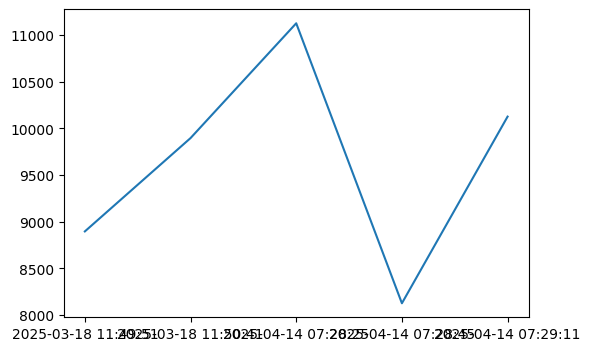
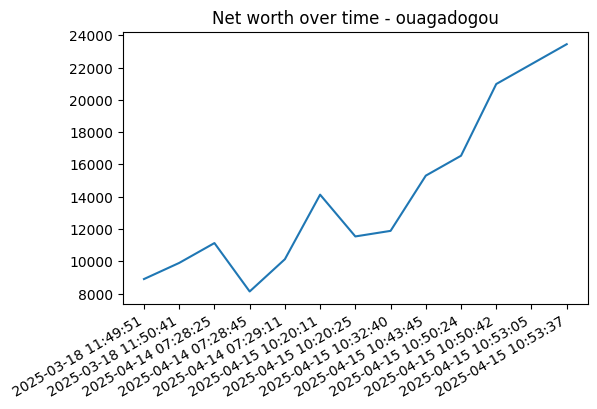
plots now appear immediately after logging in

diff --git a/piekluves_darbs/templates/dashboard.html b/piekluves_darbs/templates/dashboard.html
@@ -62,12 +62,9 @@
                                         <button type="submit" class="btn btn-primary w-100">View!</button>
                                     </form>
                                 </div>
-
-                                {% if plot_url %}
                                     <div id="plot-container">
                                         <img src="/static/plot_image.png" alt="Plot Image" style="width: 100%; max-width: 600px;">
                                     </div>
-                                {% endif %}
                             </div>
                         <div class="col-md-1"></div>
                     </div>

diff --git a/piekluves_darbs/app.py b/piekluves_darbs/app.py
@@ -1,9 +1,11 @@
 from flask import *
 import sqlite3 as sql
 import hashlib
-import datetime as dt
+from datetime import datetime as dt
+import time
 import matplotlib
 import matplotlib.pyplot as plt
+import matplotlib.dates as mdates
 import numpy as np
 import uuid
 import io
@@ -214,8 +216,9 @@ def dashboard():
         businesses.append(business.business_name)
 
     print(businesses)
+    timestamp = request.args.get("t", int(time.time() * 1000))
     
-    return render_template("dashboard.html", username = name, businesses = businesses)
+    return render_template("dashboard.html", username = name, businesses = businesses, timestamp=timestamp)
 
 @app.route("/get_business_data", methods=["GET", "POST"])
 def get_business_data():
@@ -237,7 +240,11 @@ def get_business_data():
                 
                 # Create the figure
                 fig, ax = plt.subplots(figsize=(6, 4))  # Size can be adjusted
+                
                 ax.plot(x, y)
+                ax.set_title(f"Net worth over time - {business_name}")
+                fig.autofmt_xdate()
+
 
                 # Save plot to a buffer
                 buf = io.BytesIO()
@@ -284,17 +291,20 @@ def add_transaction():
 
     transaction = Transaction.create(cls=Transaction, user_id=user_id, amount=amount, sender=sender, reciever=reciever)
 
-    db.execute("""UPDATE businesses SET net_worth=net_worth+? WHERE business_name = ?""", (amount, sender))
-
-    business_id = db.execute("""SELECT id FROM businesses WHERE business_name = ?""", (sender,), fetchone=True)
-
+    db.execute("""UPDATE businesses SET net_worth=net_worth-? WHERE business_name = ?""", (amount, sender))
+    sender_id = db.execute("""SELECT id FROM businesses WHERE business_name = ?""", (sender,), fetchone=True)
     net_worth = db.execute("""SELECT net_worth FROM businesses WHERE business_name = ?""", (sender,), fetchone=True)
+    db.execute("""INSERT INTO business_history (business_id, net_worth) VALUES (?,?)""", (sender_id[0], net_worth[0]))
 
-    db.execute("""INSERT INTO business_history (business_id, net_worth) VALUES (?,?)""", (business_id[0], net_worth[0]))
+    reciever_id = db.execute("""SELECT id FROM businesses WHERE business_name = ?""", (reciever,), fetchone=True)
+
+
 
     print("transaction added!")
 
-    return redirect(url_for("dashboard"))
+    timestamp = int(time.time()*1000)
+
+    return redirect(url_for("dashboard", t = timestamp))
 
 @app.route("/add_business", methods=['POST', 'GET'])
 def add_business():
